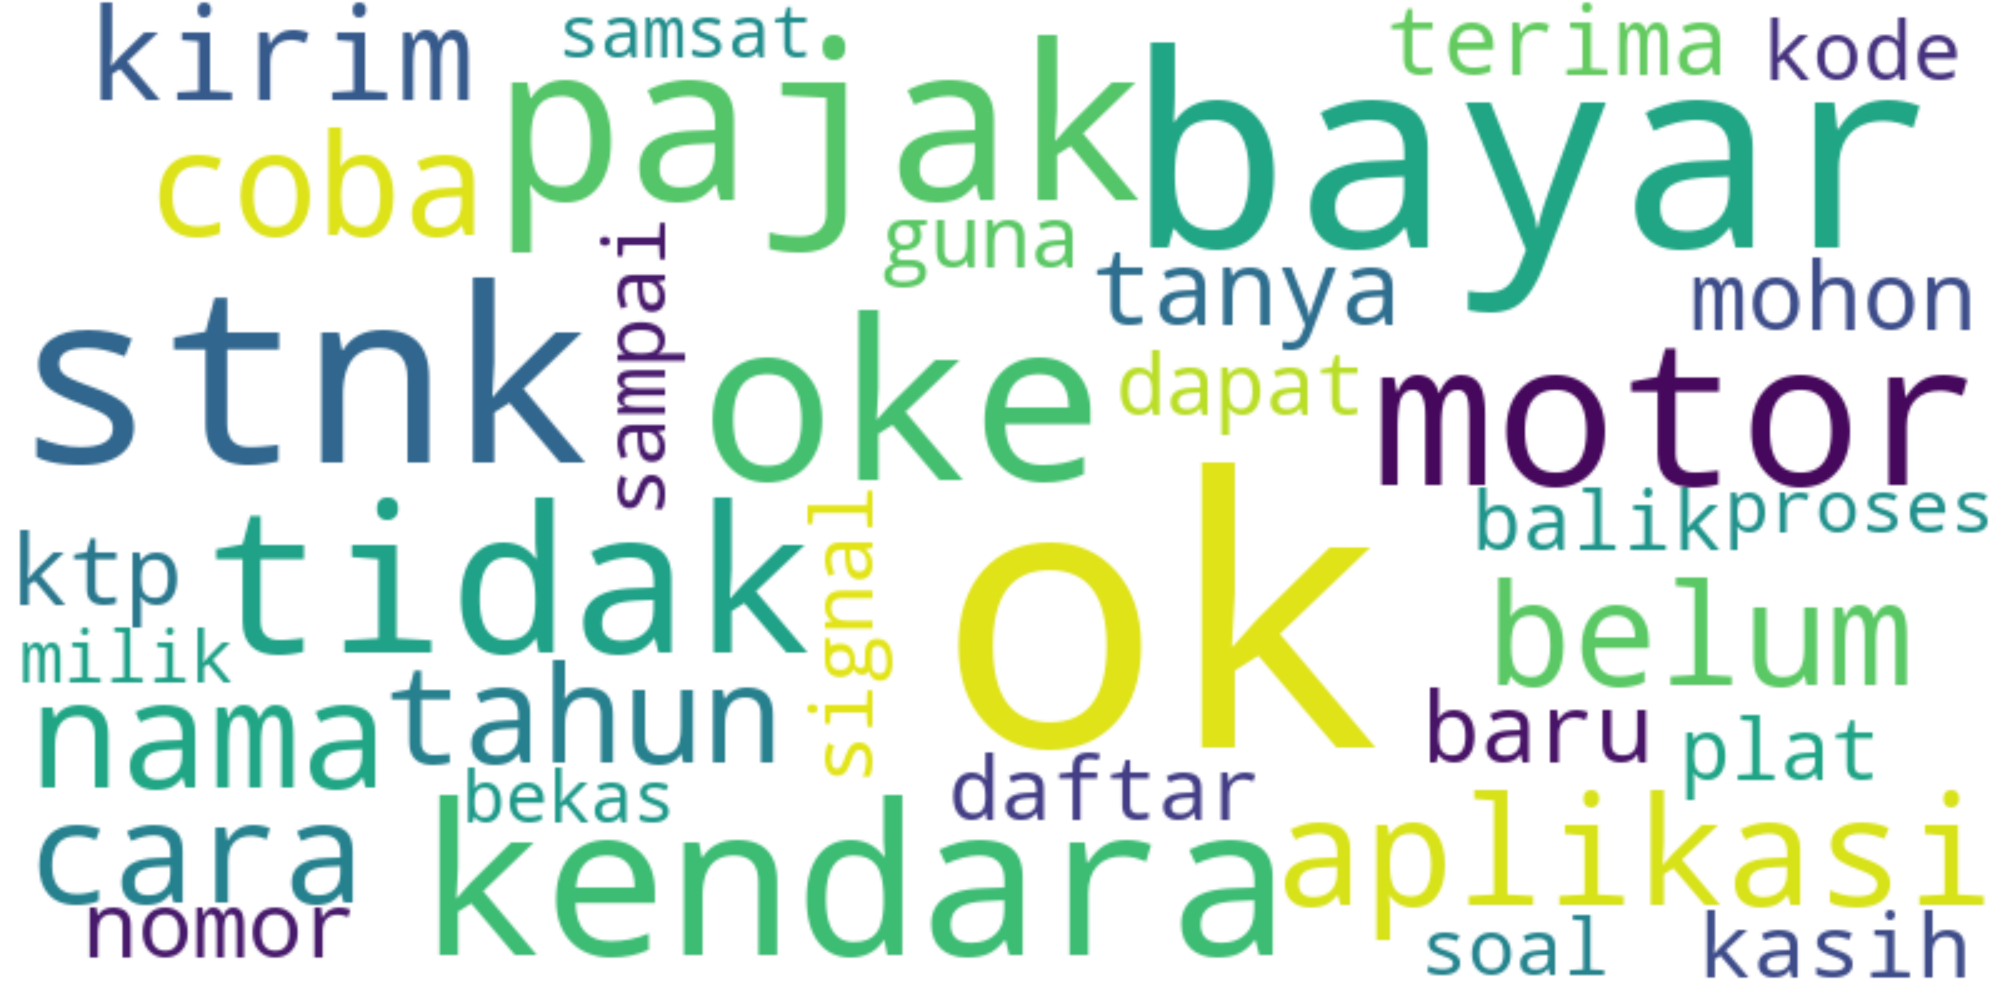
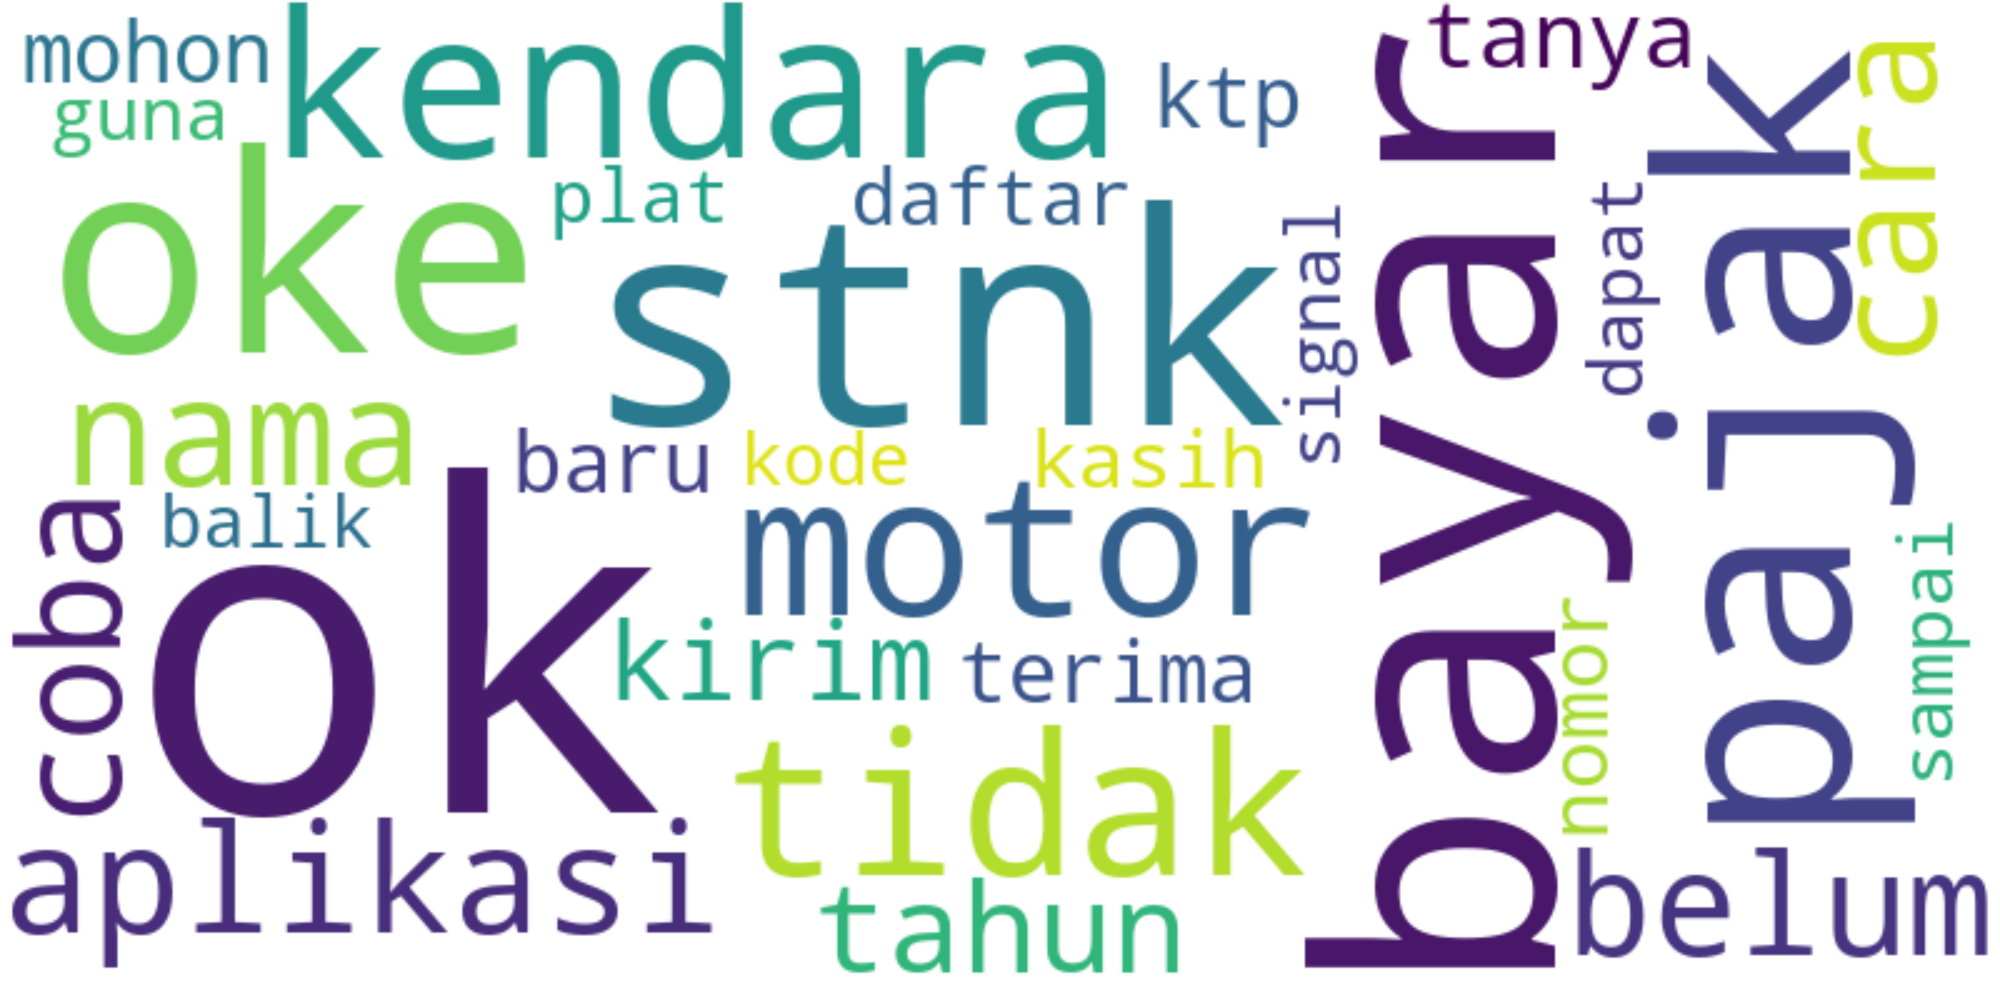
commit

diff --git a/templates/manage_dictionary.html b/templates/manage_dictionary.html
@@ -40,7 +40,7 @@
 	<div class="container" style="height: 80vh !important;" >
 		<div class="row h-100 justify-content-center align-content-center">
 			<div class="col-8 text-center h4 ">
-					Menu Pengaturan Kamus Pada Sistem
+					Pengaturan Kamus Pada Sistem
 			</div>
 			<div class="row mt-3">
 				<div class="col-12 col-sm-6 text-center">
@@ -49,10 +49,10 @@
 				    <h5 class="card-title">Kamus Perbaikan Kata</h5>
 				   	<a href="/manage_dictionary/download_dict/kamus_normalisasi.xlsx" class="btn btn-primary m-1">Unduh Kamus Perbaikan Kata</a>
 				    <hr>
-				    <p class="h5 mt-1">Perbaharui Kamus Perbaikan Kata</p>
+				    <p class="h5 mt-1">Perbarui Kamus Perbaikan Kata</p>
 				    <form action="/manage_dictionary/update_normalize" method="POST" enctype="multipart/form-data">
 				    <input type="file" name=file-upload required>
-				    <button type="submit" class="m-1" >Submit</button>
+				    <button type="submit" class="m-1 btn" >Submit</button>
 				    </form>
 				  </div>
 				</div>
@@ -63,10 +63,10 @@
 				    <h5 class="card-title">Kamus Stopwords</h5>
 				    <a href="/manage_dictionary/download_dict/kamus_stopwords.txt" class="btn btn-primary m-1">Unduh Kamus Stopwords</a>
 				    <hr>
-				    <p class="h5 mt-1">Perbaharui Kamus Stopwords</p>
+				    <p class="h5 mt-1">Perbarui Kamus Stopwords</p>
 				    <form action="/manage_dictionary/update_stopwords" method="POST" enctype="multipart/form-data">
 				    <input type="file" name=file-upload required>
-				    <button type="submit" class="m-1" >Submit</button>
+				    <button type="submit" class="m-1 btn" >Submit</button>
 				    </form>
 				  </div>
 				</div>

diff --git a/word_cloud.py b/word_cloud.py
@@ -6,7 +6,7 @@ import matplotlib.pyplot as plt
 tf_vector = TfidfVectorizer()
 
 def cloudMaker(x, names):
-	cloud = WordCloud(background_color = "white", max_words=35, width=800, height=400).generate_from_frequencies(
+	cloud = WordCloud(background_color = "white", max_words=30, width=800, height=400).generate_from_frequencies(
 			x.T.sum(axis=1))
 	plt.figure(figsize=(20,10))
 	plt.imshow(cloud, interpolation="bilinear")
